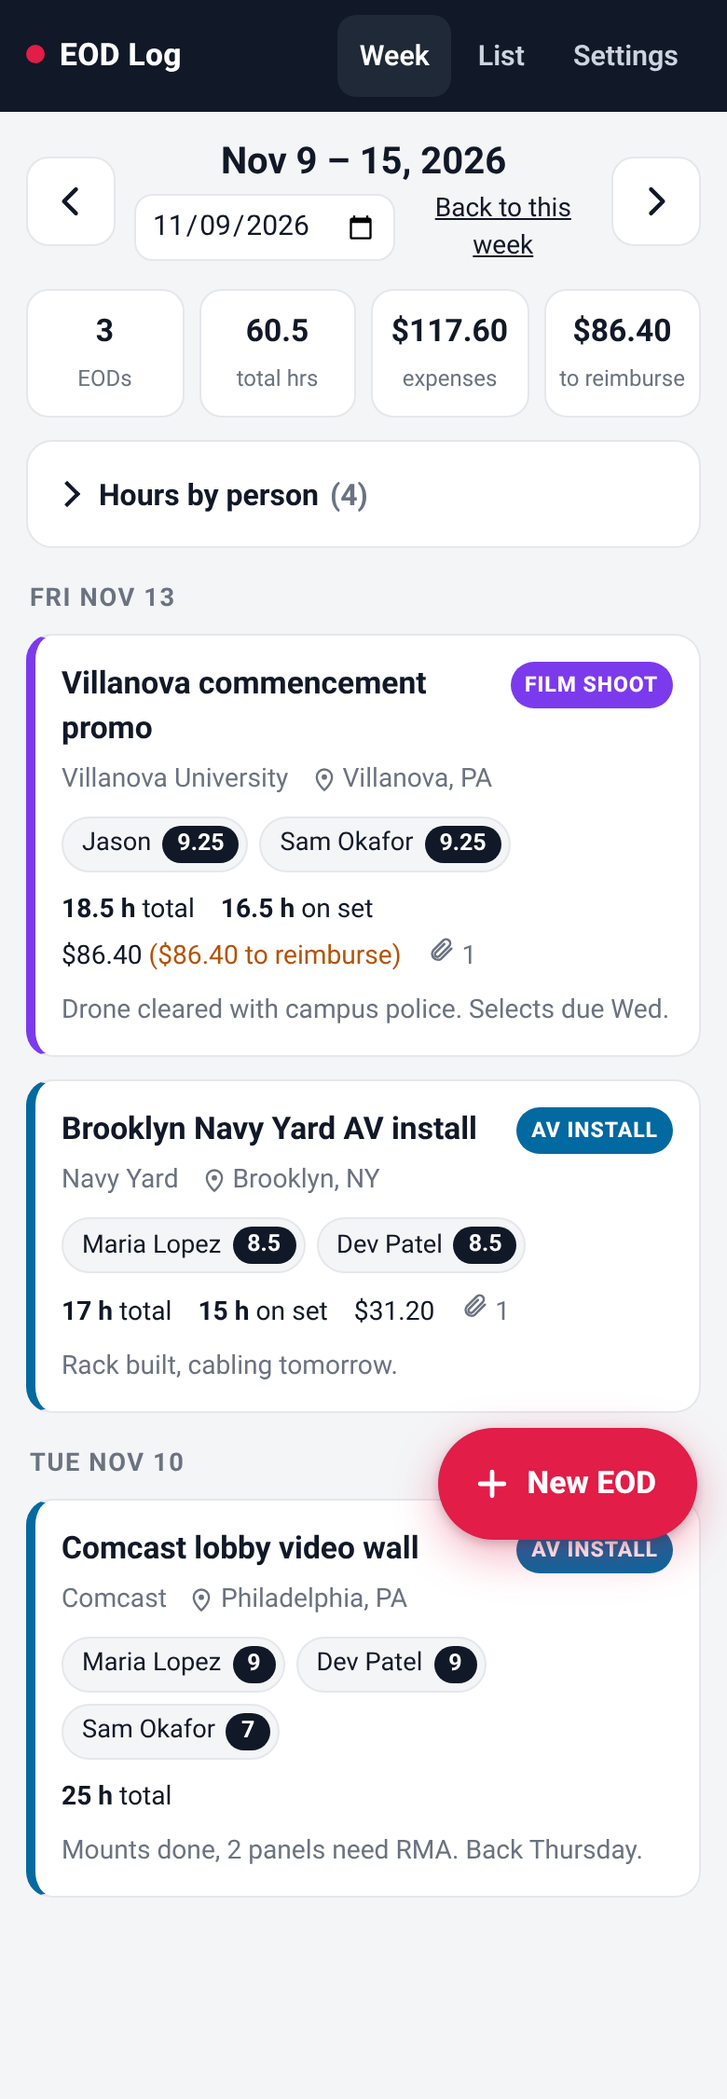
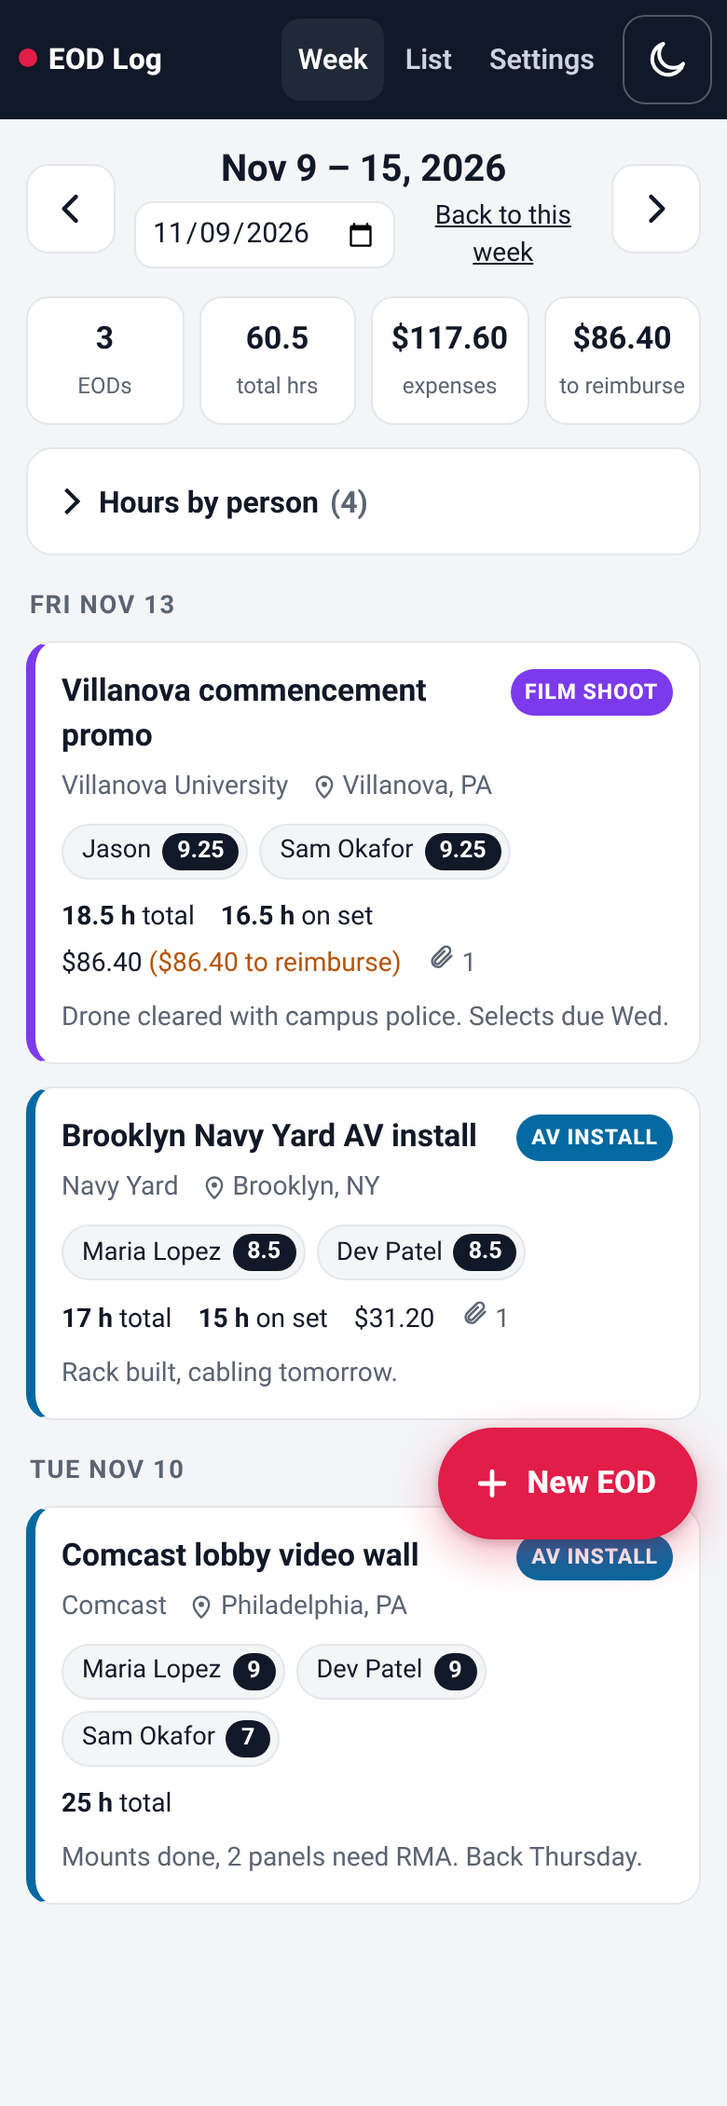
Light/dark mode: header sun/moon button on every page (login included), system default, remembered per device, applied before first paint; themed colors with AA contrast in both; color-scheme + theme-color meta. Tests, contrast audit, screenshots

diff --git a/public/app.css b/public/app.css
@@ -1,6 +1,10 @@
-:root{--bg:#f4f5f7;--card:#fff;--ink:#111827;--muted:#6b7280;--line:#e5e7eb;--accent:#e11d48;--accent-ink:#fff;--accent-soft:#ffe4e8;--ok:#047857;--warn:#b45309;--danger:#b91c1c;
---film:#7c3aed;--install:#0369a1;--live:#e11d48;--edit:#047857;--other:#6b7280;--radius:14px;--tap:48px;color-scheme:light dark}
-@media (prefers-color-scheme:dark){:root{--bg:#0b0f17;--card:#151b26;--ink:#eef1f6;--muted:#9aa4b2;--line:#273041;--accent-soft:#3b1621;--warn:#f59e0b;--danger:#f87171;--ok:#34d399}}
+:root{--bg:#f4f5f7;--card:#fff;--ink:#111827;--muted:#5b6472;--line:#e5e7eb;--accent:#e11d48;--accent-ink:#fff;--accent-soft:#ffe4e8;--ok:#047857;--warn:#b45309;--danger:#b91c1c;--top:#111827;--tab:#cbd5e1;--tab-on:#1f2937;
+--alert-bg:#fef2f2;--alert-ink:#991b1b;--alert-line:#fecaca;--info-bg:#ecfdf5;--info-ink:#065f46;--info-line:#a7f3d0;--sent-bg:#d1fae5;--sent-ink:#065f46;--skip-bg:#e5e7eb;--skip-ink:#374151;--fail-bg:#fee2e2;--fail-ink:#991b1b;--test-bg:#dbeafe;--test-ink:#1e40af;--warnt-bg:#fef3c7;--warnt-ink:#92400e;--evbar:#2563eb;
+--film:#7c3aed;--install:#0369a1;--live:#e11d48;--edit:#047857;--other:#6b7280;--radius:14px;--tap:48px;color-scheme:light}
+/* dark: the saved/system choice is applied by /theme.js as data-theme; the media query is only the no-JS fallback */
+:root[data-theme=dark]{--bg:#0b0f17;--card:#151b26;--ink:#eef1f6;--muted:#a3adbb;--line:#2b3548;--accent-soft:#3b1621;--warn:#f59e0b;--danger:#f87171;--ok:#34d399;--top:#0d1320;--tab:#cbd5e1;--tab-on:#1f2937;--alert-bg:#3a1212;--alert-ink:#fecaca;--alert-line:#7f1d1d;--info-bg:#062e22;--info-ink:#a7f3d0;--info-line:#065f46;--sent-bg:#064e3b;--sent-ink:#a7f3d0;--skip-bg:#2b3548;--skip-ink:#d1d5db;--fail-bg:#4c1414;--fail-ink:#fecaca;--test-bg:#172554;--test-ink:#bfdbfe;--warnt-bg:#422006;--warnt-ink:#fde68a;--evbar:#60a5fa;--danger-fill:#dc2626;color-scheme:dark}
+@media (prefers-color-scheme:dark){:root:not([data-theme]){--bg:#0b0f17;--card:#151b26;--ink:#eef1f6;--muted:#a3adbb;--line:#2b3548;--accent-soft:#3b1621;--warn:#f59e0b;--danger:#f87171;--ok:#34d399;--top:#0d1320;--tab:#cbd5e1;--tab-on:#1f2937;--alert-bg:#3a1212;--alert-ink:#fecaca;--alert-line:#7f1d1d;--info-bg:#062e22;--info-ink:#a7f3d0;--info-line:#065f46;--sent-bg:#064e3b;--sent-ink:#a7f3d0;--skip-bg:#2b3548;--skip-ink:#d1d5db;--fail-bg:#4c1414;--fail-ink:#fecaca;--test-bg:#172554;--test-ink:#bfdbfe;--warnt-bg:#422006;--warnt-ink:#fde68a;--evbar:#60a5fa;--danger-fill:#dc2626;color-scheme:dark}}
+:root[data-theme=light]{color-scheme:light}
 *{box-sizing:border-box}
 html{-webkit-text-size-adjust:100%}
 body{margin:0;background:var(--bg);color:var(--ink);font:16px/1.45 -apple-system,BlinkMacSystemFont,"Segoe UI",Roboto,Helvetica,Arial,sans-serif;padding-bottom:calc(96px + env(safe-area-inset-bottom))}
@@ -9,12 +13,12 @@ h1{font-size:1.45rem;margin:.2em 0 .5em;line-height:1.2}h2{font-size:1.1rem;marg
 .muted{color:var(--muted)}.small{font-size:.875rem}.r{text-align:right}.pre{white-space:pre-wrap}.warn{color:var(--warn)}.owed{color:var(--warn);font-style:normal}
 .sr{position:absolute;width:1px;height:1px;overflow:hidden;clip:rect(0 0 0 0)}
 .wrap{max-width:760px;margin:0 auto;padding:14px 14px 0}
-.top{position:sticky;top:0;z-index:20;display:flex;align-items:center;gap:10px;padding:calc(8px + env(safe-area-inset-top)) 14px 8px;background:#111827;color:#fff}
+.top{position:sticky;top:0;z-index:20;display:flex;align-items:center;gap:10px;padding:calc(8px + env(safe-area-inset-top)) 14px 8px;background:var(--top);color:#fff}
 .brand{font-weight:800;text-decoration:none;letter-spacing:.01em;font-size:1.05rem;white-space:nowrap}
 .brand::before{content:"";display:inline-block;width:10px;height:10px;border-radius:50%;background:var(--accent);margin-right:8px;vertical-align:1px}
 .tabs{display:flex;gap:2px;margin-left:auto}
-.tabs a{padding:10px 12px;border-radius:10px;text-decoration:none;color:#cbd5e1;font-weight:600;font-size:.95rem;min-height:44px;display:flex;align-items:center}
-.tabs a.on{background:#1f2937;color:#fff}
+.tabs a{padding:10px 12px;border-radius:10px;text-decoration:none;color:var(--tab);font-weight:600;font-size:.95rem;min-height:44px;display:flex;align-items:center}
+.tabs a.on{background:var(--tab-on);color:#fff}
 .top .desk-only{display:none}
 @media (min-width:820px){.top .desk-only{display:inline-flex}.fab{display:none!important}body{padding-bottom:40px}}
 .card{background:var(--card);border:1px solid var(--line);border-radius:var(--radius);padding:14px;margin:0 0 12px;display:block}
@@ -37,9 +41,8 @@ input:focus,select:focus,textarea:focus{outline:3px solid color-mix(in srgb,var(
 .linkbtn{background:none;border:0;color:inherit;text-decoration:underline;font:inherit;font-weight:700;cursor:pointer;padding:4px}
 .iconbtn{display:flex;align-items:center;justify-content:center;width:48px;height:48px;border-radius:12px;background:var(--card);border:1px solid var(--line);text-decoration:none;flex:none}
 .fab{position:fixed;right:16px;bottom:calc(18px + env(safe-area-inset-bottom));z-index:30;display:flex;align-items:center;gap:8px;background:var(--accent);color:#fff;text-decoration:none;font-weight:800;padding:0 22px 0 18px;height:60px;border-radius:30px;box-shadow:0 8px 24px rgba(225,29,72,.35),0 2px 6px rgba(0,0,0,.2);font-size:1.05rem}
-.alert{background:#fef2f2;color:#991b1b;border:1px solid #fecaca;border-radius:10px;padding:10px 12px}
-.alert.info{background:#ecfdf5;color:#065f46;border-color:#a7f3d0}
-@media (prefers-color-scheme:dark){.alert{background:#3a1212;color:#fecaca;border-color:#7f1d1d}.alert.info{background:#062e22;color:#a7f3d0;border-color:#065f46}}
+.alert{background:var(--alert-bg);color:var(--alert-ink);border:1px solid var(--alert-line);border-radius:10px;padding:10px 12px}
+.alert.info{background:var(--info-bg);color:var(--info-ink);border-color:var(--info-line)}
 code{font-size:.9em;background:rgba(127,127,127,.15);padding:1px 5px;border-radius:5px}
 /* login */
 body.bare{padding-bottom:0}.login{max-width:420px;margin:12vh auto 0}
@@ -85,7 +88,7 @@ details.sect>summary{min-height:32px}details.sect[open]>summary{margin-bottom:12
 .rcpt figcaption{overflow:hidden;text-overflow:ellipsis;white-space:nowrap;margin-top:3px}
 .rcpt .del{flex-direction:row;align-items:center;gap:6px;font-weight:500;font-size:.8rem}
 .rcpt .del input{width:20px;height:20px}
-.warnbox{border-color:#fca5a5}
+.warnbox{border-color:var(--alert-line)}
 .actions{display:flex;flex-direction:column;gap:10px;margin:16px 0}.actions form{display:contents}.actions .btn{width:100%}
 /* form */
 .sec-head{display:flex;justify-content:space-between;align-items:baseline}
@@ -120,22 +123,33 @@ details.sect>summary{min-height:32px}details.sect[open]>summary{margin-bottom:12
 .row3{display:grid;grid-template-columns:repeat(3,1fr);gap:8px}.row3 form{margin:0}
 .sched.off{opacity:.65}.sched h3{margin-bottom:2px}
 .tag{display:inline-block;font-size:.72rem;font-weight:800;text-transform:uppercase;letter-spacing:.04em;padding:2px 7px;border-radius:999px;background:var(--line);color:var(--ink)}
-.tag-sent{background:#d1fae5;color:#065f46}.tag-skipped{background:#e5e7eb;color:#374151}.tag-failed{background:#fee2e2;color:#991b1b}.tag-test{background:#dbeafe;color:#1e40af}.tag-sending{background:#fef3c7;color:#92400e}
+.tag-sent{background:var(--sent-bg);color:var(--sent-ink)}.tag-skipped{background:var(--skip-bg);color:var(--skip-ink)}.tag-failed{background:var(--fail-bg);color:var(--fail-ink)}.tag-test{background:var(--test-bg);color:var(--test-ink)}.tag-sending{background:var(--warnt-bg);color:var(--warnt-ink)}
 .crew-row .tot{order:0}
 .crew-row .tots{display:grid;grid-template-columns:1fr 1fr;gap:8px}.crew-row .tots .tot{flex-direction:column;align-items:flex-start;gap:2px}.crew-row .tots .tot span{font-size:.78rem;color:var(--muted);text-transform:uppercase;letter-spacing:.03em;font-weight:700}
-.tag-warn{background:#fef3c7;color:#92400e}
+.tag-warn{background:var(--warnt-bg);color:var(--warnt-ink)}
 input.bad{border-color:var(--danger)!important;outline:3px solid color-mix(in srgb,var(--danger) 30%,transparent)}
 [hidden]{display:none!important}
-.previewbar{position:sticky;top:0;z-index:20;display:flex;align-items:center;justify-content:space-between;gap:10px;margin:-14px -14px 12px;padding:calc(8px + env(safe-area-inset-top)) 14px 8px;background:#111827;color:#fff}
+.previewbar{position:sticky;top:0;z-index:20;display:flex;align-items:center;justify-content:space-between;gap:10px;margin:-14px -14px 12px;padding:calc(8px + env(safe-area-inset-top)) 14px 8px;background:var(--top);color:#fff}
 .previewbar .backbtn{background:#fff;color:#111827;border-color:#fff;min-height:44px;padding:8px 14px 8px 8px;font-weight:700}
-.previewtag{font-size:.85rem;font-weight:600;opacity:.8}
+.previewtag{font-size:.85rem;font-weight:600;opacity:.8;margin-left:auto}
 .center{text-align:center}
 .danger-zone{border:1.5px solid var(--danger)}.danger-zone h2{color:var(--danger)}
 .warnbig{color:var(--danger);margin:0}
-.btn.dangerfill{background:var(--danger);color:#fff;border-color:var(--danger)}
+.btn.dangerfill{background:var(--danger-fill,var(--danger));color:#fff;border-color:var(--danger-fill,var(--danger))}
 fieldset.plain{border:0;padding:0;margin:0;min-width:0}fieldset.plain legend{padding:0;margin-bottom:4px}
 .devcode{font:800 2rem/1.2 ui-monospace,SFMono-Regular,Menlo,monospace;letter-spacing:.12em;text-align:center;background:var(--bg);border:1.5px dashed var(--line);border-radius:12px;padding:14px;margin:0;user-select:all}
 .drive-connect{border:1.5px solid var(--accent)}
 pre.tree{font:.78rem/1.5 ui-monospace,SFMono-Regular,Menlo,monospace;background:var(--bg);border-radius:10px;padding:10px;overflow-x:auto;margin:0;white-space:pre}
 .row3 form .btn{width:100%}
-.evprev{border-left:4px solid #2563eb;background:var(--bg);border-radius:8px;padding:10px 12px}.evprev pre.tree{margin:8px 0;white-space:pre-wrap}
+.evprev{border-left:4px solid var(--evbar);background:var(--bg);border-radius:8px;padding:10px 12px}.evprev pre.tree{margin:8px 0;white-space:pre-wrap}
+
+/* theme button: sun/moon, 48px tap target */
+.themebtn{display:inline-flex;align-items:center;justify-content:center;width:48px;height:48px;min-height:48px;padding:0;flex:none;border-radius:12px;border:1.5px solid rgba(255,255,255,.28);background:transparent;color:#fff;cursor:pointer;font:inherit}
+.themebtn:hover{background:rgba(255,255,255,.12)}.themebtn:focus-visible{outline:3px solid #fff;outline-offset:2px}
+.themebtn svg{width:24px;height:24px;display:block}
+.themebtn .i-sun{display:none}:root[data-theme=dark] .themebtn .i-sun{display:block}:root[data-theme=dark] .themebtn .i-moon{display:none}
+.top .themebtn{margin-left:2px}.tabs{margin-left:auto}
+.themebtn.floating{position:fixed;top:calc(10px + env(safe-area-inset-top));right:12px;z-index:40;background:var(--card);color:var(--ink);border-color:var(--line)}
+.themebtn.floating:hover{background:var(--bg)}
+.previewbar .themebtn{width:44px;height:44px;min-height:44px}
+@media (max-width:420px){.top{gap:4px;padding-left:10px;padding-right:8px}.brand{font-size:.98rem}.tabs a{padding:10px 9px}.brand::before{margin-right:6px}}

diff --git a/src/views.js b/src/views.js
@@ -2,30 +2,35 @@ const cfg = require('./config');
 const H = require('../public/hours.js');
 const { html, raw, prettyDate, rangeLabel, money, addDays, TIMEZONES, tzShort, tzLabel, JOB_TYPES, EXPENSE_CATS, WDL } = require('./util');
 
-const V = '20'; // static asset cache-buster
+const V = '21'; // static asset cache-buster
 const icon = {
   plus: raw('<svg viewBox="0 0 24 24" width="22" height="22" aria-hidden="true"><path d="M12 5v14M5 12h14" stroke="currentColor" stroke-width="2.6" stroke-linecap="round" fill="none"/></svg>'),
   left: raw('<svg viewBox="0 0 24 24" width="22" height="22" aria-hidden="true"><path d="M15 5l-7 7 7 7" stroke="currentColor" stroke-width="2.4" stroke-linecap="round" stroke-linejoin="round" fill="none"/></svg>'),
   right: raw('<svg viewBox="0 0 24 24" width="22" height="22" aria-hidden="true"><path d="M9 5l7 7-7 7" stroke="currentColor" stroke-width="2.4" stroke-linecap="round" stroke-linejoin="round" fill="none"/></svg>'),
+  sun: raw('<svg class="i-sun" viewBox="0 0 24 24" aria-hidden="true"><circle cx="12" cy="12" r="4.2" fill="none" stroke="currentColor" stroke-width="2"/><path d="M12 2.5v2.6M12 18.9v2.6M2.5 12h2.6M18.9 12h2.6M5.3 5.3l1.9 1.9M16.8 16.8l1.9 1.9M18.7 5.3l-1.9 1.9M7.2 16.8l-1.9 1.9" stroke="currentColor" stroke-width="2" stroke-linecap="round"/></svg>'),
+  moon: raw('<svg class="i-moon" viewBox="0 0 24 24" aria-hidden="true"><path d="M20.5 14.2A8.5 8.5 0 119.8 3.5a7 7 0 0010.7 10.7z" fill="none" stroke="currentColor" stroke-width="2" stroke-linejoin="round"/></svg>'),
   clip: raw('<svg viewBox="0 0 24 24" width="15" height="15" aria-hidden="true"><path d="M21 11l-8.5 8.5a5 5 0 01-7-7L14 4a3.5 3.5 0 015 5l-8.5 8.5a2 2 0 01-3-3L15 7" stroke="currentColor" stroke-width="2" fill="none" stroke-linecap="round"/></svg>'),
   pin: raw('<svg viewBox="0 0 24 24" width="14" height="14" aria-hidden="true"><path d="M12 22s7-6.2 7-12a7 7 0 10-14 0c0 5.8 7 12 7 12z" stroke="currentColor" stroke-width="2" fill="none"/><circle cx="12" cy="10" r="2.5" fill="currentColor"/></svg>'),
 };
+/** Light/dark toggle. Shows the icon of the mode you will switch TO (CSS picks sun or moon from data-theme). Wired up in app.js. */
+const themeBtn = (cls = '') => html`<button type="button" class="themebtn ${cls}" data-theme-toggle aria-label="Switch between light and dark mode" title="Light / dark mode">${icon.moon}${icon.sun}</button>`;
 const typeClass = (t) => ({ 'Film shoot': 't-film', 'AV install': 't-install', 'Live event': 't-live', 'Edit / DIT': 't-edit' }[t] || 't-other');
 const hrs = (min) => (min || min === 0 ? H.dec(min) + ' h' : '–');
 
-function layout(req, { title, body, active, scripts = [], fab = true, bare = false }) {
+function layout(req, { title, body, active, scripts = [], fab = true, bare = false, ownBar = false }) {
   const nav = (href, label, key) => html`<a href="${href}" class="${active === key ? 'on' : ''}"${active === key ? raw(' aria-current="page"') : ''}>${label}</a>`;
   return html`<!doctype html><html lang="en"><head><meta charset="utf-8">
 <meta name="viewport" content="width=device-width, initial-scale=1, viewport-fit=cover">
 <title>${title ? title + ' · ' : ''}${cfg.APP_NAME}</title>
-<meta name="theme-color" content="#111827"><meta name="robots" content="noindex,nofollow">
+<meta name="color-scheme" content="light dark"><meta name="theme-color" content="#111827"><script src="/theme.js?v=${V}"></script><meta name="robots" content="noindex,nofollow">
 <link rel="manifest" href="/manifest.webmanifest"><link rel="icon" href="/icons/icon.svg" type="image/svg+xml">
 <link rel="apple-touch-icon" href="/icons/apple-touch-icon.png"><meta name="apple-mobile-web-app-capable" content="yes">
 <meta name="mobile-web-app-capable" content="yes"><meta name="apple-mobile-web-app-title" content="${cfg.APP_NAME}">
 <link rel="stylesheet" href="/app.css?v=${V}"></head><body class="${bare ? 'bare' : ''}">
 ${bare ? '' : html`<header class="top"><a class="brand" href="/">${cfg.APP_NAME}</a>
 <nav class="tabs">${nav('/', 'Week', 'week')}${nav('/list', 'List', 'list')}${nav('/settings', 'Settings', 'settings')}</nav>
-<a class="btn primary desk-only" href="/new">${icon.plus} New EOD</a></header>`}
+<a class="btn primary desk-only" href="/new">${icon.plus} New EOD</a>${themeBtn()}</header>`}
+${bare && !ownBar ? themeBtn('floating') : ''}
 <main class="wrap">${body}</main>
 ${fab && !bare ? html`<a class="fab" href="/new" aria-label="New end of day">${icon.plus}<span>New EOD</span></a>` : ''}
 <script src="/app.js?v=${V}" defer></script>${scripts.map((s) => html`<script src="${s}?v=${V}" defer></script>`)}
@@ -277,14 +282,14 @@ function summaryPage(req, { s, sch, title, emailHtml, isAdmin, smtpOk, back }) {
   const backHref = back || (isAdmin ? (sch ? `/settings/n/${sch.id}` : '/settings') : '/');
   const backLabel = backHref === '/settings' ? 'Settings' : backHref.startsWith('/settings/n/') ? 'Notification' : 'Back';
   const nav = (dir) => `/summary?${sch ? `n=${sch.id}&` : ''}from=${addDays(s.from, dir * days)}&to=${addDays(s.to, dir * days)}${back ? '&back=' + encodeURIComponent(back) : ''}`;
-  const body = html`<div class="previewbar"><a class="btn backbtn" href="${backHref}" data-back>${icon.left} ${backLabel}</a><span class="previewtag">Email preview</span></div>
+  const body = html`<div class="previewbar"><a class="btn backbtn" href="${backHref}" data-back>${icon.left} ${backLabel}</a><span class="previewtag">Email preview</span>${themeBtn()}</div>
 <div class="weeknav"><a class="iconbtn" href="${nav(-1)}" aria-label="Previous period">${icon.left}</a>
 <div class="weeklabel"><h1>${title}</h1><span class="muted small">${s.label}${s.entries.length ? '' : ' · no EODs: a scheduled send would be skipped'}</span></div>
 <a class="iconbtn" href="${nav(1)}" aria-label="Next period">${icon.right}</a></div>
 ${isAdmin && smtpOk && sch ? html`<form method="post" action="/settings/n/${sch.id}/send" class="row2 card"><input type="hidden" name="from" value="${s.from}"><input type="hidden" name="to_date" value="${s.to}"><input type="email" name="to" placeholder="Test address (empty = recipients)" aria-label="Send to"><button class="btn primary" type="submit">Send test</button></form>` : ''}
 <div class="emailprev">${raw(emailHtml)}</div>
 <p class="center"><a class="btn big" href="${backHref}">${icon.left} Back to ${backLabel === 'Back' ? 'the app' : backLabel}</a></p>`;
-  return layout(req, { title, active: 'settings', body, bare: true, fab: false });
+  return layout(req, { title, active: 'settings', body, bare: true, fab: false, ownBar: true });
 }
 
 function drivePage(req, { st, dev, msg, err, cal }) {

diff --git a/public/theme.js b/public/theme.js
@@ -1,0 +1,20 @@
+// Runs in <head> before first paint (a normal blocking script, because the CSP is script-src 'self': no inline scripts).
+// Theme = the person's saved choice on this device, else the system setting (prefers-color-scheme).
+(function () {
+  var KEY = 'eod-theme', root = document.documentElement, mq = window.matchMedia ? window.matchMedia('(prefers-color-scheme: dark)') : null;
+  var BAR = { light: '#111827', dark: '#0d1320' }; // header colours, so the phone's status bar matches
+  function saved() { try { var v = localStorage.getItem(KEY); return v === 'light' || v === 'dark' ? v : ''; } catch (e) { return ''; } }
+  function apply(t) {
+    root.setAttribute('data-theme', t); root.style.colorScheme = t;
+    var m = document.querySelector('meta[name=theme-color]'); if (m) m.setAttribute('content', BAR[t]);
+  }
+  window.eodTheme = {
+    current: function () { return root.getAttribute('data-theme') || 'light'; },
+    toggle: function () { var n = this.current() === 'dark' ? 'light' : 'dark'; try { localStorage.setItem(KEY, n); } catch (e) { /* private mode: still switches for this page */ } apply(n); return n; },
+    reapply: function () { apply(saved() || (mq && mq.matches ? 'dark' : 'light')); },
+  };
+  window.eodTheme.reapply();
+  // follow the system when nothing is saved; keep tabs on the same device in step
+  if (mq && mq.addEventListener) mq.addEventListener('change', function () { if (!saved()) window.eodTheme.reapply(); });
+  window.addEventListener('storage', function (e) { if (e.key === KEY) window.eodTheme.reapply(); });
+})();

diff --git a/public/app.js b/public/app.js
@@ -23,3 +23,19 @@ document.addEventListener('submit', function (ev) {
   var bad = Array.prototype.filter.call(ev.target.querySelectorAll('input'), function (i) { return i.validity && i.validity.badInput; });
   if (bad.length) { ev.preventDefault(); ev.stopImmediatePropagation(); bad.forEach(function (i) { i.classList.add('bad'); }); alert('A date or time is only partly filled in. Finish it or clear it.'); bad[0].focus(); }
 }, true);
+
+// light/dark button (theme itself is applied before first paint by /theme.js)
+(function () {
+  function label() {
+    var dark = window.eodTheme && window.eodTheme.current() === 'dark';
+    document.querySelectorAll('[data-theme-toggle]').forEach(function (b) {
+      b.setAttribute('aria-label', dark ? 'Switch to light mode' : 'Switch to dark mode'); b.title = dark ? 'Switch to light mode' : 'Switch to dark mode';
+    });
+  }
+  document.addEventListener('click', function (ev) {
+    var b = ev.target.closest && ev.target.closest('[data-theme-toggle]');
+    if (b && window.eodTheme) { window.eodTheme.toggle(); label(); }
+  });
+  new MutationObserver(label).observe(document.documentElement, { attributes: true, attributeFilter: ['data-theme'] });
+  label();
+})();

diff --git a/README.md b/README.md
@@ -30,6 +30,7 @@ Built for film shoots, AV installs and live events. Mobile first: big tap target
   **If there are no EODs in the period, nothing is sent**; it's logged as *skipped*. Each notification has **Preview** and **Send test**, and Settings shows a notification log. The preview has a **Back** button pinned to the top (it returns to Settings or the notification you came from); it is never part of the email itself.
 - **Google Drive copy** (Settings → Google Drive, admin): every EOD is uploaded to an organized, shareable Drive folder: a PDF of the day plus each receipt, in a folder per job per day, named by date, job, expense and amount. Runs in the background with retries; saving an EOD never waits for Drive. See [Google Drive setup](#google-drive-setup).
 - **Google Calendar** (Settings → Google Calendar, admin, optional): one event per EOD on its own calendar, with the crew, hours and expenses in the description and the EOD PDF attached. See [Google Calendar setup](#google-calendar-setup).
+- **Light / dark mode.** A sun/moon button sits in the header of every page (and top-right on the sign-in page). It starts with the device's own setting (`prefers-color-scheme`), the button switches it, and the choice is remembered per device in `localStorage`. `public/theme.js` is a small blocking script in `<head>` (not inline, because the CSP only allows scripts from the app itself) so the right theme is set before the first paint, with no flash. It also sets `color-scheme` (native date/time pickers and form controls match) and the `theme-color` meta. Summary emails and PDFs are unaffected, and the email preview shows the email itself on white. `scripts/contrast.mjs` checks text contrast on every main page in both themes.
 - **CSV export** of hours (one row per person per day, with `total_hours` and `on_set_hours` columns) and expenses, for payroll or spreadsheets.
 - **Clear all data (admin only).** Settings → *Danger zone* → **Clear all data…** shows how many EODs, receipts and MB will go, links the CSV exports, and needs you to type `DELETE` plus the admin password. By default it deletes all EODs, expenses, receipts and uploaded files and keeps notifications; you can also choose to reset notifications, settings and the log. Before clearing it saves a database copy to `/data/backups/` (last 3 kept; receipt files are not included), then compacts the database.
 
@@ -328,6 +329,7 @@ npm test             # unit tests (hours maths, Google Drive and Calendar sync a
   With `MAILPIT=` set, it also sends the summary to a [Mailpit](https://github.com/axllent/mailpit) catcher and checks the email, including attached receipts.
   `BASE=http://127.0.0.1:7240 APP_PASSWORD=... ADMIN_PASSWORD=... MAILPIT=http://127.0.0.1:8025 node scripts/e2e.mjs`
 - `scripts/screenshots.mjs`: phone-size (390×844) screenshots into `preview/`. It needs `puppeteer-core` installed outside the project and Chrome.
+- `scripts/contrast.mjs`: contrast audit (WCAG AA) of all text on the main pages in light and dark; needs `puppeteer-core` and Chrome like the screenshots.
 - `scripts/browser-test.mjs`: drives the real form in **WebKit (iPhone 13)** and **Chromium (Pixel 7)** with Playwright. It covers add, edit, several crew, overnight, meals, a crew row with no name, and times with seconds. The simplest way to run it:
   `docker run --rm --network host -v $PWD:/w -w /w mcr.microsoft.com/playwright:v1.65.1-noble bash -c "npm i --no-save playwright@1.65.1 && APP_PASSWORD=... node scripts/browser-test.mjs"`
 - `scripts/notify-test.mjs`: scheduler check (about 3 minutes) with Mailpit. A daily notification with no EODs sends nothing and is logged as skipped; with an EOD, two notifications send to their own recipients. A container restart afterwards sends no duplicates (checked by hand).
